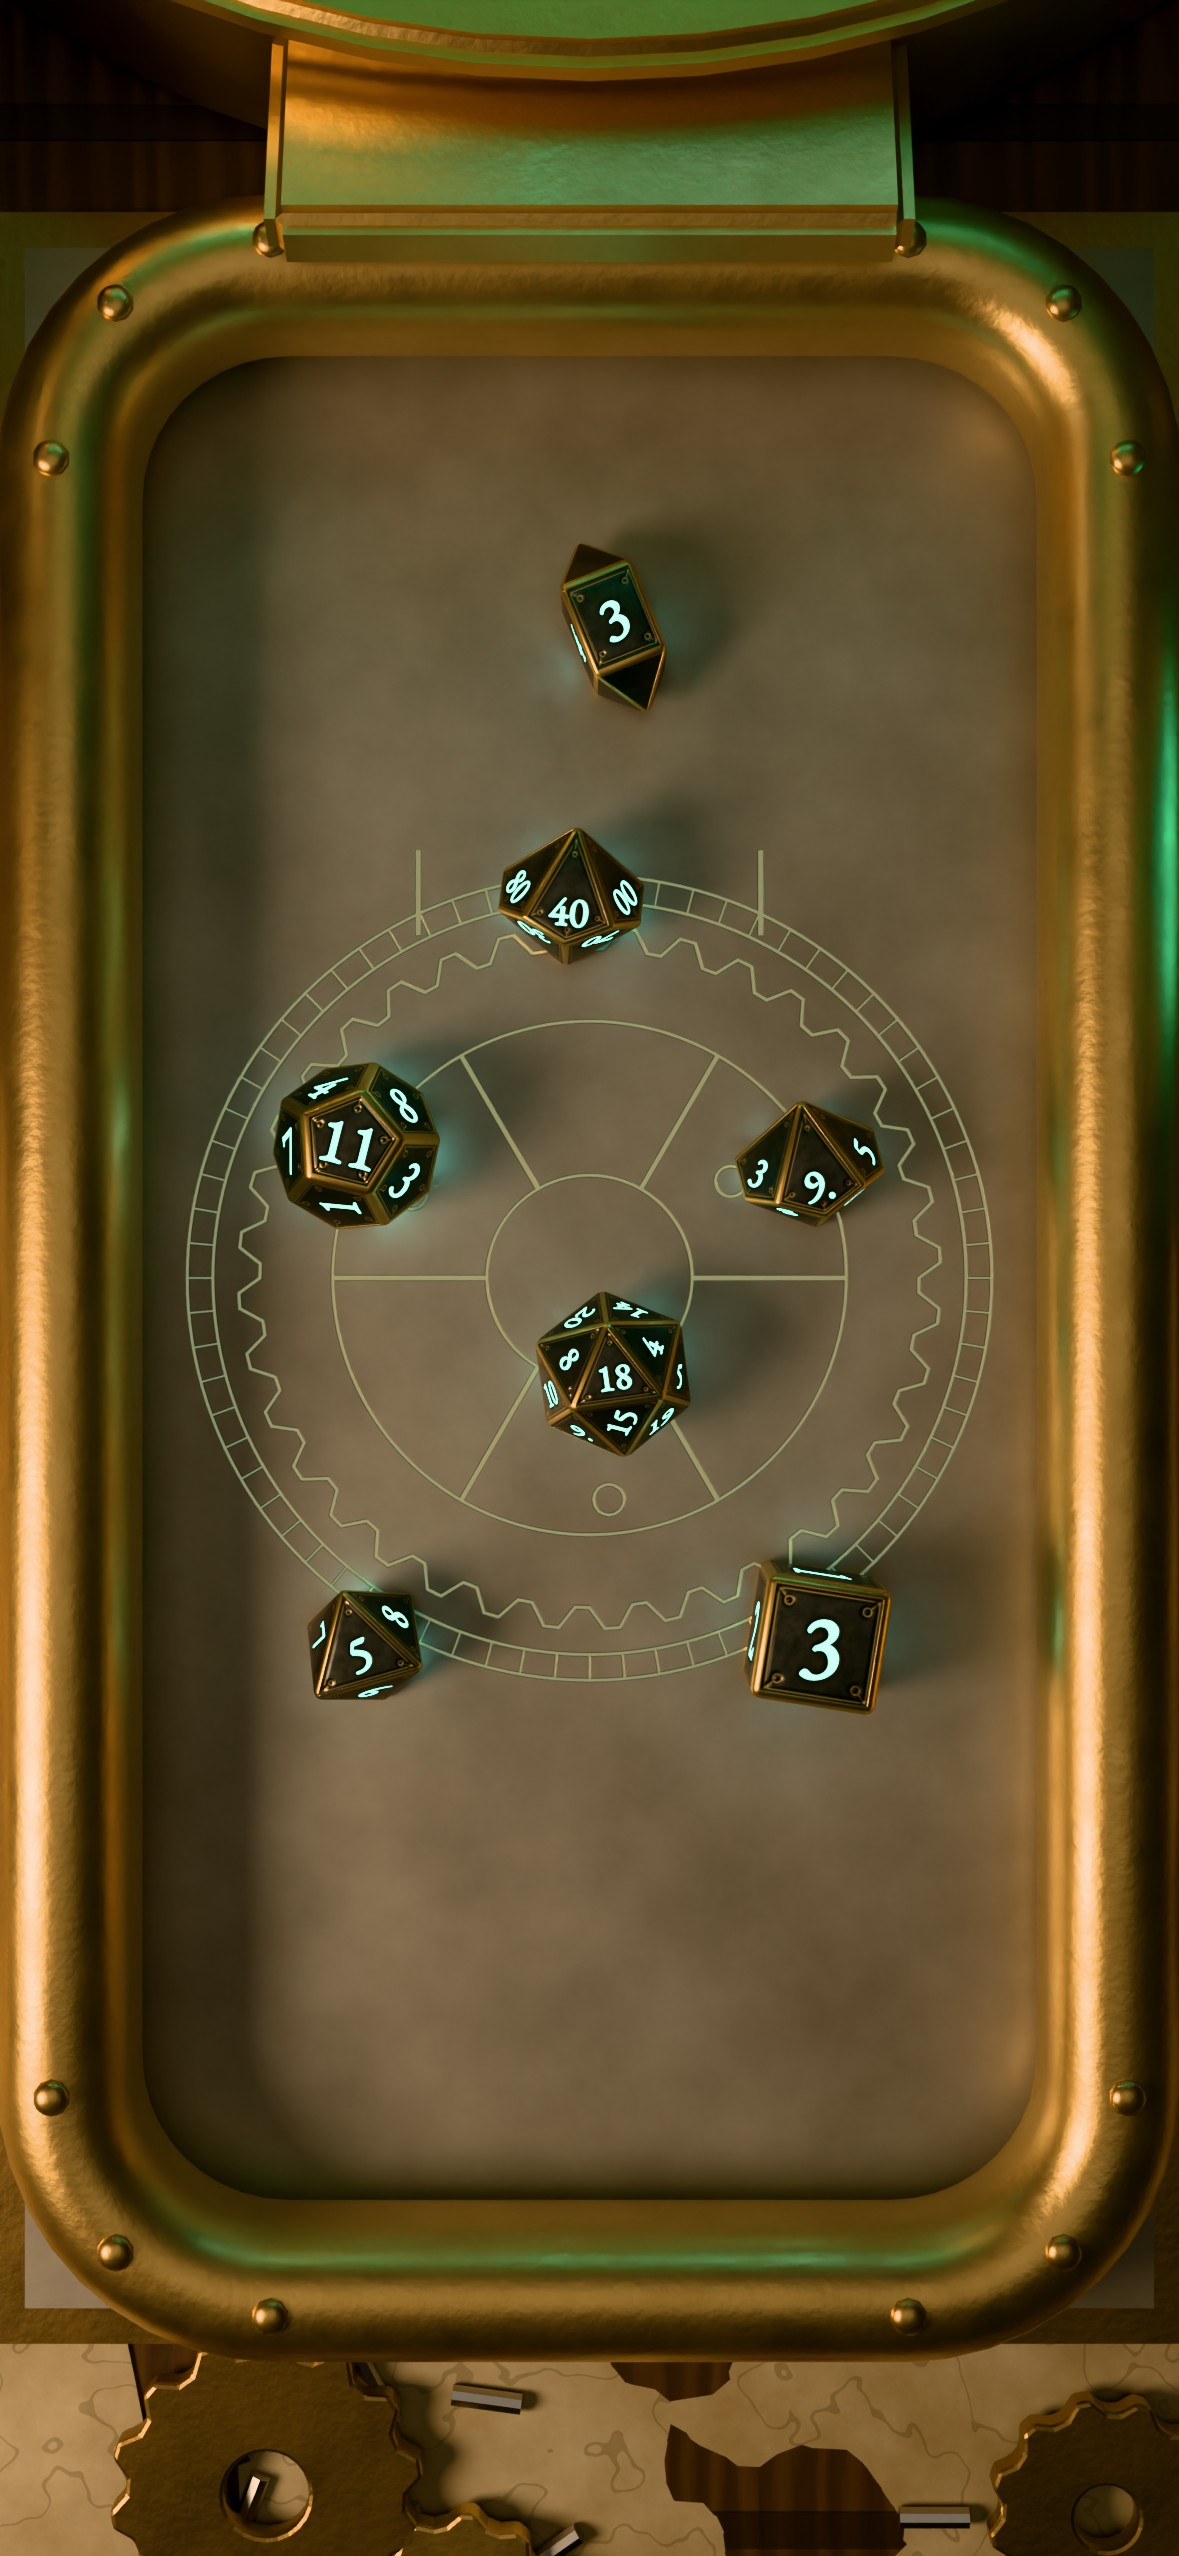
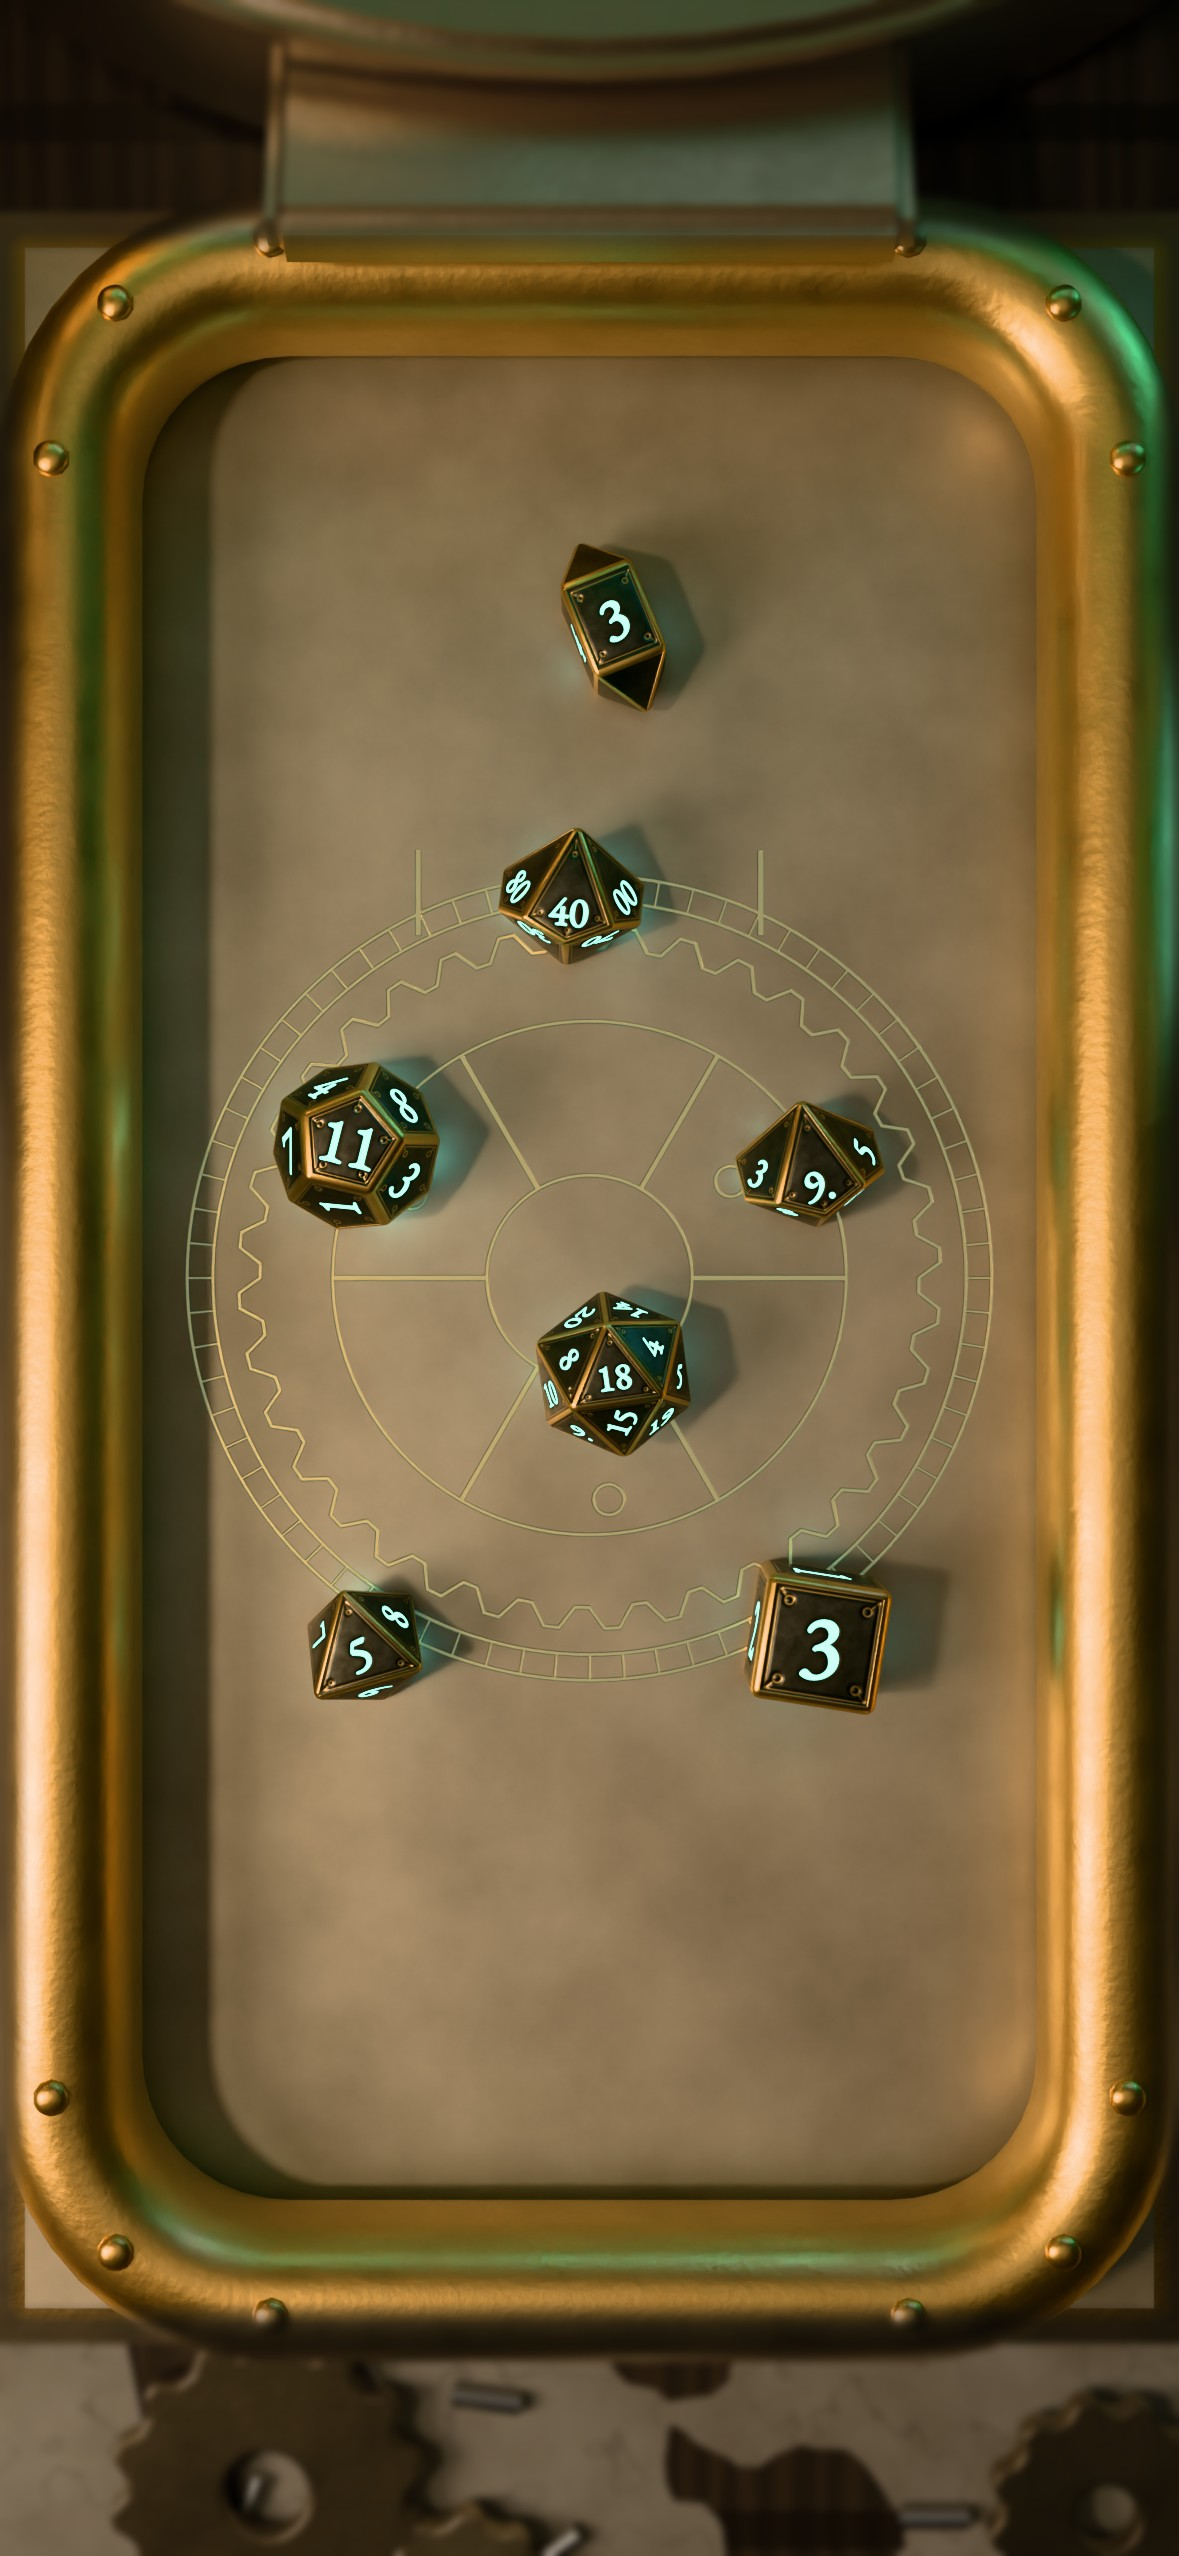
Game rooms: Fate Engine inventor's workshop

diff --git a/dart3d/example/tool/dice_lookdev/build_env_celestial.py b/dart3d/example/tool/dice_lookdev/build_env_celestial.py
@@ -12,6 +12,7 @@ import random
 
 import env_common as E
 import env_props as P
+import room_common as RC
 from build_dice import _circle
 from build_env_frostbound import crystal_cluster
 
@@ -152,6 +153,53 @@ def build(scene):
     ndl = E.cube("compass_needle", (0.3, 4.0, 0.1), (W / 2 - 1.5, bot - 3.3, 0.35), silver)
     ndl.rotation_euler = (0, 0, 0.5)
     crystal_cluster(-W / 2 + 2.0, bot - 3.0, 0, 3, 17, am, 0.3)
+    rc = room(scene, am)
     return dict(
         samples=128, exposure=0.3, topdown=dict(width=W + 2 * RIM_T + 1.0), hero=dict(dist=32, elev=30, az=8, lens=65, fstop=2.8),
+        play_view=True, tray_half=(W / 2 + RIM_T, D / 2 + RIM_T), room_cam=rc,
     )
+
+
+def room(scene, am):
+    """The observatory loggia (concept: room-concepts/celestial-room).
+
+    An open marble arcade on the star balcony: columns and a lintel frame the
+    nebula sky over the balustrade, marble side walls with deep-violet
+    hangings, a brass telescope on its tripod, a great floor armillary and
+    an amethyst geode. Lights from four sides: the moon (cool, back-left),
+    a brass lantern hung on the left (warm), the amethyst glow (violet,
+    right) and two sconces on the side walls; plus the tray's soft front.
+    """
+    mar = marble("Loggia marble")
+    RC.shell(half_w=200, back=95, front=-200, height=320, wall=mar, floor=marble("Loggia floor"), floor_z=-60.0,
+             back_wall=False)
+    RC.work_table(180, 140, top_z=-6.0, thick=0.1, mat=mar, leg_r=7, y=20, top=False)
+    # the arcade: columns at the balustrade and a lintel under the open sky
+    for x in (-190, -95, 95, 190):
+        RC.column(x, 100, 320, 14, mar)
+    E.cube("arcade_lintel", (420, 30, 30), (0, 100, RC.FLOOR_Z + 305), mar, bevel=1.5)
+    # violet hangings on the side walls
+    for side, u in (("left", -20), ("right", -20), ("left", -130), ("right", -130)):
+        RC.banner(side, u, 230, w=55, h=180, color=(0.08, 0.02, 0.14), trim=(0.6, 0.48, 0.25), pattern=True)
+    brass = P.brass("Observatory brass", worn=0.35)
+    # a brass telescope on a tripod, back-left, aimed at the sky
+    tx, ty = -125, 55
+    for i in range(3):
+        a = math.radians(120 * i + 20)
+        leg = E.cylinder("tripod_leg", 1.4, 120, (tx + math.cos(a) * 18, ty + math.sin(a) * 18, RC.FLOOR_Z + 58),
+                         P.dark_wood("Tripod wood"), segs=10)
+        leg.rotation_euler = (-math.sin(a) * 0.3, math.cos(a) * 0.3, 0)
+    tube = E.cylinder("telescope", 6, 110, (tx + 12, ty + 25, RC.FLOOR_Z + 135), brass, segs=32, r2=4.5)
+    tube.rotation_euler = (math.radians(-60), 0, math.radians(-25))
+    # a great floor armillary on the right
+    P.armillary(125, 40, RC.FLOOR_Z, R=38.0, mat=brass)
+    # an amethyst geode with its violet glow (right, front of the armillary)
+    import build_env_frostbound as F
+    F.crystal_cluster(110, -30, RC.FLOOR_Z + 0.5, 11, 31, am, 3.2)
+    E.light(scene, "POINT", "geode_glow", (110, -30, RC.FLOOR_Z + 40), 30000, color=(0.65, 0.3, 1.0), size=15,
+            shadow=False)
+    # a warm lantern hung on the left and sconces on the side walls
+    RC.hanging_lantern(scene, -80, -20, 70, energy=35000, mat=brass, glass_color=(1.0, 0.75, 0.45))
+    for side in ("left", "right"):
+        RC.sconce(scene, side, 40, 120, energy=9000)
+    return dict(loc=(16, -80, 48), target=(0, 120, 20), lens=20, fstop=4.0, focus=(0, 0, 2))

diff --git a/dart3d/example/tool/dice_lookdev/build_env_fateengine.py b/dart3d/example/tool/dice_lookdev/build_env_fateengine.py
@@ -224,7 +224,7 @@ def room(scene):
     RC.wall_shelf("left", 40, 85, w=150, seed=12, kind="mixed",
                   palette=[(0.2, 0.12, 0.06), (0.12, 0.1, 0.08), (0.3, 0.2, 0.1)])
     # the tesla column: a glass cylinder with a teal coil on a brass base (right)
-    tx, ty = 135, 70
+    tx, ty = 118, 105
     E.cylinder("tesla_base", 22, 20, (tx, ty, RC.FLOOR_Z + 10), brass, segs=32, bevel=1.0)
     E.cylinder("tesla_glass", 16, 150, (tx, ty, RC.FLOOR_Z + 95), P.glass("Tesla glass"), segs=32,
                cap=False).visible_shadow = False
@@ -234,7 +234,7 @@ def room(scene):
         z0, z1 = RC.FLOOR_Z + 30 + i * 7.5, RC.FLOOR_Z + 30 + (i + 1) * 7.5
         RC.neon_bar(scene, (tx + 9 * math.cos(a0), ty + 9 * math.sin(a0), z0),
                     (tx + 9 * math.cos(a1), ty + 9 * math.sin(a1), z1), TEAL, strength=12.0, energy=0, r=0.8)
-    E.light(scene, "POINT", "tesla_light", (tx, ty, RC.FLOOR_Z + 100), 45000, color=TEAL, size=12, shadow=False)
+    E.light(scene, "POINT", "tesla_light", (tx, ty, RC.FLOOR_Z + 100), 25000, color=TEAL, size=12, shadow=False)
     # cogs, rolled plans and tools on the big table around the tray (beyond the phone frame)
     for i, (x, y, r) in enumerate(((-55, -20, 6), (-70, 10, 4), (60, -30, 5), (75, 50, 7))):
         P.gear(f"table_cog{i}", r, 10 + i * 2, 1.2, (x, y, 0.0), brass, hole=0)
@@ -245,4 +245,4 @@ def room(scene):
     RC.pendant_lamp(scene, -45, -10, 80, energy=60000, color=(1.0, 0.72, 0.42), shade=(0.4, 0.28, 0.12), r=24,
                     spot_deg=95)
     RC.hanging_lantern(scene, -120, 130, 110, energy=40000, mat=iron)
-    return dict(loc=(20, -72, 44), target=(0, 90, 6), lens=20, fstop=4.0, focus=(0, 0, 2))
+    return dict(loc=(20, -82, 50), target=(4, 90, 0), lens=20, fstop=4.0, focus=(0, 0, 2))

diff --git a/dart3d/example/tool/dice_lookdev/room_common.py b/dart3d/example/tool/dice_lookdev/room_common.py
@@ -214,7 +214,7 @@ def wall_plane(name, length, height, openings, mat, thickness=18.0):
 
 
 def shell(half_w=220, back=260, front=-160, height=300, wall=None, floor=None, ceiling=None, side_walls=True,
-          openings=None, side_mats=None, floor_z=-76.0):
+          openings=None, side_mats=None, floor_z=-76.0, back_wall=True):
     """Floor, back wall, side walls (optional) and ceiling (optional); the front is open.
 
     openings: {"back"|"left"|"right": [(u, z, w, h), ...]} holes in the walls
@@ -234,8 +234,9 @@ def shell(half_w=220, back=260, front=-160, height=300, wall=None, floor=None, c
     def local(ops, centre):
         return [(u - centre, z - FLOOR_Z, w, h) for (u, z, w, h) in ops]
 
-    bw = wall_plane("wall_back", 2 * half_w, height, local(openings.get("back", []), 0.0), wall)
-    _group("wall_back_g", [bw], Vector((0, back, FLOOR_Z)), 0.0)
+    if back_wall:  # False: an open loggia / balcony
+        bw = wall_plane("wall_back", 2 * half_w, height, local(openings.get("back", []), 0.0), wall)
+        _group("wall_back_g", [bw], Vector((0, back, FLOOR_Z)), 0.0)
     if side_walls:
         mid = (back + front) / 2
         for side, sx in (("left", -1), ("right", 1)):

diff --git a/docs/design/dice-lookdev.md b/docs/design/dice-lookdev.md
@@ -1088,6 +1088,16 @@ Lighting recipes (the tray lights are unchanged unless noted):
   plank floor, a burgundy-and-ink rug. Camera: 20 mm, seated, f/4. Gate:
   numeral 5.97 (d4), die vs tray 2.16, stroke 0.124–0.130, PASS.
 
+- **Fate Engine — the inventor's workshop.** Brick walls run with copper
+  pipes and big brass wall gears, a tall mullioned window onto a spired
+  city at night (area, 40 kW, cool, back-right), a side bench with bottle
+  shelves on the left, a glass tesla column with a teal coil on the right
+  (shadowless 25 kW teal, the accent), an industrial pendant above-left of
+  the table (spot, 60 kW, 1.0/0.72/0.42, the warm key) and a caged lamp on
+  the back wall (40 kW, warm, back-left); over the tray's own key and rim.
+  Camera: 20 mm, f/4. Gate: numeral 11.81 (d12), die vs tray 2.92, stroke
+  0.124–0.130, PASS.
+
 ## 4. dart3d features to verify (before building these for real)
 
 1. **Emissive intensity > 1 + bloom threshold** on both platforms, and
